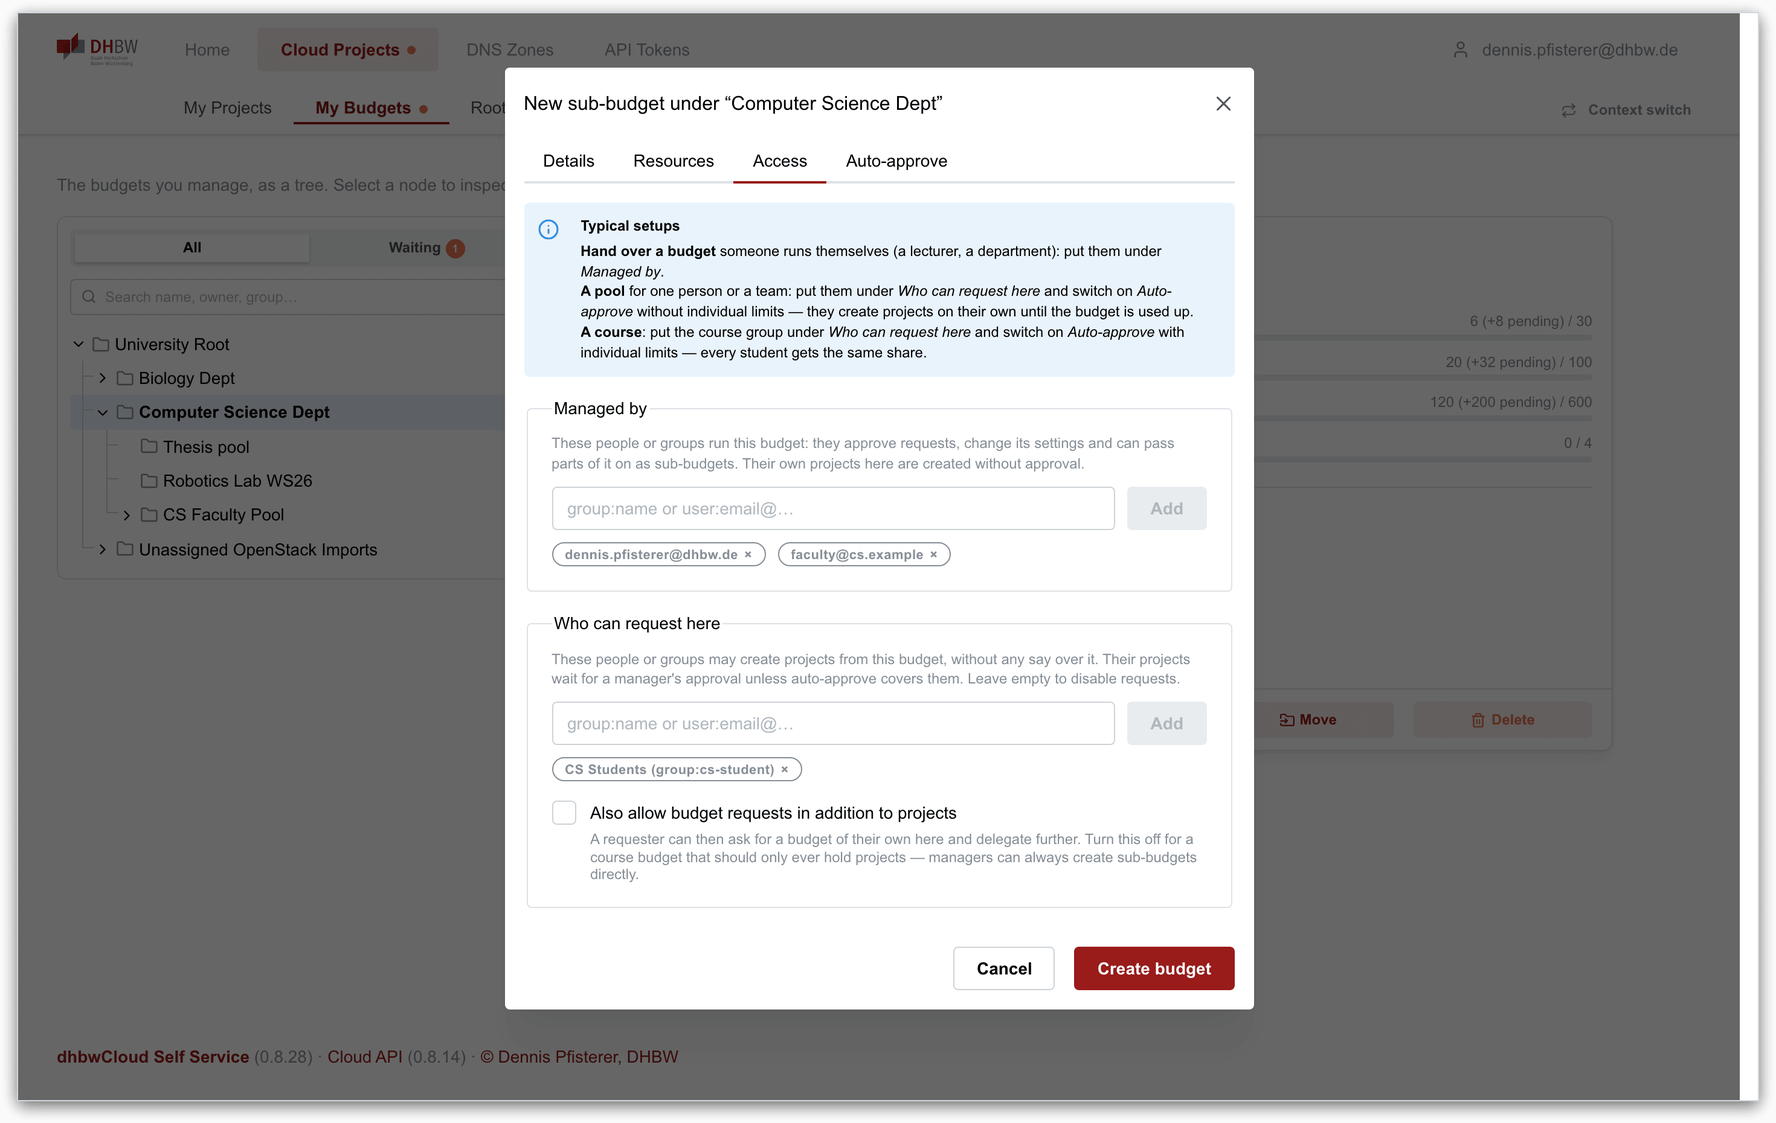
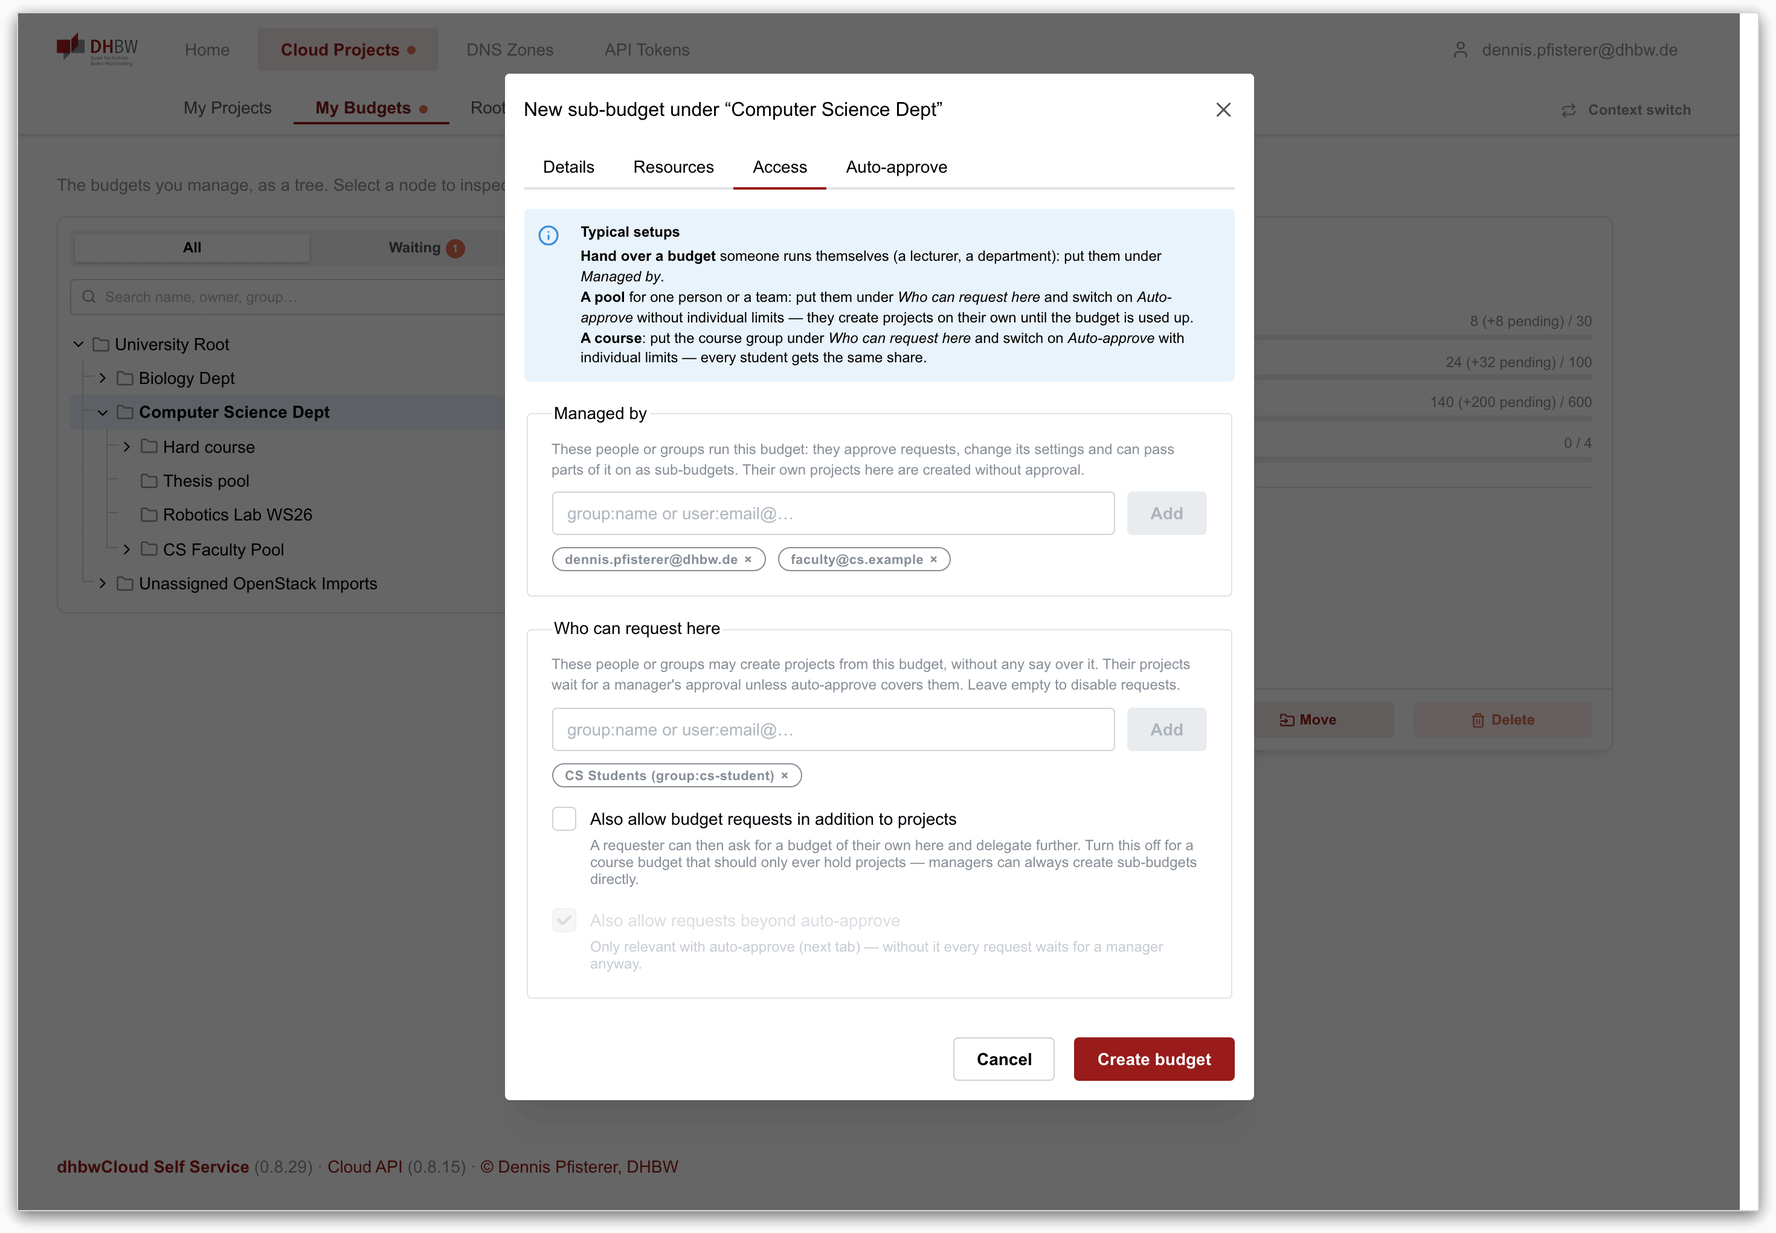
budgets: requests beyond auto-approve can be switched off
Under "Who can request here", a budget with auto-approve can refuse what the policy does not cover. The request form then says so and cannot be sent, and the budget cards say that nothing goes beyond the share.

diff --git a/web/projects/util-project.jsx b/web/projects/util-project.jsx
@@ -252,13 +252,20 @@ export function autoApproveHeadroom(budget, resources, myProjects) {
     return out;
 }
 
+// beyondAutoApproveRefused reports whether the budget refuses requests its
+// auto-approve does not cover, instead of queueing them for a manager.
+export function beyondAutoApproveRefused(budget) {
+    return hasAutoApprove(budget) && budget.allow_requests_beyond_auto_approve === false;
+}
+
 // autoApproveText says in one line what a budget grants without a manager,
 // or '' when it grants nothing that way.
 export function autoApproveText(resources, budget) {
     if (!hasAutoApprove(budget)) return '';
-    if (isPoolAutoApprove(budget)) return 'Approved automatically while the budget has room';
+    const hard = beyondAutoApproveRefused(budget) ? '; nothing beyond that can be requested' : '';
+    if (isPoolAutoApprove(budget)) return `Approved automatically while the budget has room${hard}`;
     const amount = resourceSummaryText(resources, budget.auto_approve.per_requester_limit);
-    return `Up to ${amount || 'the configured amount'} per person approved automatically`;
+    return `Up to ${amount || 'the configured amount'} per person approved automatically${hard}`;
 }
 
 // What happens when a request is sent — the same decision the API makes, made
@@ -268,6 +275,8 @@ export function autoApproveText(resources, budget) {
 //               own creation is checked on the spot and turned down
 //   'instant'   the budget's auto-approve grants it (or it needs no approval)
 //   'approval'  a manager of the budget decides
+//   'blocked'   beyond what auto-approve grants, and the budget takes no
+//               requests beyond that — the server refuses it
 //
 // requestOutcome is for a NEW project under `budget`.
 export function requestOutcome({ budget, manages, quota, resources, myProjects }) {
@@ -278,7 +287,8 @@ export function requestOutcome({ budget, manages, quota, resources, myProjects }
     const fits = (resources || [])
         .filter(r => !isAvailability(r))
         .every(r => (quota?.[r.id] ?? 0) <= (headroom[r.id] ?? 0));
-    return fits ? 'instant' : 'approval';
+    if (fits) return 'instant';
+    return beyondAutoApproveRefused(budget) ? 'blocked' : 'approval';
 }
 
 // changeOutcome is for a proposed change to an active project `node` under
@@ -287,7 +297,10 @@ export function requestOutcome({ budget, manages, quota, resources, myProjects }
 // and extending take effect at once only where the budget's auto-approve covers
 // them — for growth only the DIFFERENCE has to fit, since the project already
 // holds its current size.
-export function changeOutcome({ node, budget, quota, terminationDate, resources, myProjects }) {
+//
+// `manages`: the viewer manages the budget — the hard limit of a budget that
+// takes no requests beyond its auto-approve does not bind them.
+export function changeOutcome({ node, budget, quota, terminationDate, resources, myProjects, manages = false }) {
     const current = node?.limit || {};
     const counted = (resources || []).filter(r => !isAvailability(r));
     const grows = (resources || []).some(r => isAvailability(r)
@@ -299,10 +312,11 @@ export function changeOutcome({ node, budget, quota, terminationDate, resources,
     const extendsEnd = nextEnd !== null && currentEnd !== null && nextEnd > currentEnd;
 
     if (!grows && !extendsEnd) return 'instant';
+    const beyond = beyondAutoApproveRefused(budget) && !manages ? 'blocked' : 'approval';
     if (!hasAutoApprove(budget) || budget.status !== 'approved') return 'approval';
     if (extendsEnd) {
         const budgetEnd = endOf(budget.termination_date);
-        if (budgetEnd !== null && nextEnd > budgetEnd) return 'approval';
+        if (budgetEnd !== null && nextEnd > budgetEnd) return beyond;
     }
     if (grows) {
         // An availability newly switched on is no quantity: the policy grants
@@ -311,7 +325,7 @@ export function changeOutcome({ node, budget, quota, terminationDate, resources,
         const headroom = autoApproveHeadroom(budget, resources, myProjects);
         const fits = counted.every(r =>
             (quota?.[r.id] ?? 0) - (current[r.id] ?? 0) <= (headroom[r.id] ?? 0));
-        if (!fits) return 'approval';
+        if (!fits) return beyond;
     }
     return 'instant';
 }

diff --git a/web/projects/modal-budget-form.jsx b/web/projects/modal-budget-form.jsx
@@ -62,6 +62,7 @@ export function BudgetFormModal({ opened, onClose, onDone, resources, mode, pare
                 adminScope: node.admin_scope || [],
                 eligibleRequesters: node.eligible_requesters || [],
                 allowSubBudgetRequests: node.allow_sub_budget_requests !== false,
+                allowRequestsBeyond: node.allow_requests_beyond_auto_approve !== false,
                 autoApproveEnabled: !!node.auto_approve,
                 autoApproveIndividual: !!node.auto_approve && !isPoolAutoApprove(node),
                 autoApproveQuota: { ...(node.auto_approve?.per_requester_limit || defaultQuota(resources)) },
@@ -84,6 +85,8 @@ export function BudgetFormModal({ opened, onClose, onDone, resources, mode, pare
                 // requesters. Existing budgets are untouched — the API still treats an
                 // unset flag as "allowed".
                 allowSubBudgetRequests: false,
+                // As before the switch existed: beyond auto-approve, a manager decides.
+                allowRequestsBeyond: true,
                 autoApproveEnabled: false,
                 // A pool unless said otherwise: the budget's own cap already
                 // bounds it, and a per-person limit only matters once several
@@ -172,6 +175,9 @@ export function BudgetFormModal({ opened, onClose, onDone, resources, mode, pare
         if (allowSubBudgetRequests !== (node.allow_sub_budget_requests !== false)) {
             body.allow_sub_budget_requests = allowSubBudgetRequests;
         }
+        if (values.allowRequestsBeyond !== (node.allow_requests_beyond_auto_approve !== false)) {
+            body.allow_requests_beyond_auto_approve = values.allowRequestsBeyond;
+        }
         const policy = autoApprovePolicy(values);
         if (policy) {
             const prev = JSON.stringify(node.auto_approve?.per_requester_limit || {});
@@ -207,6 +213,7 @@ export function BudgetFormModal({ opened, onClose, onDone, resources, mode, pare
                 admin_scope: values.adminScope,
                 eligible_requesters: values.eligibleRequesters,
                 allow_sub_budget_requests: values.allowSubBudgetRequests,
+                allow_requests_beyond_auto_approve: values.allowRequestsBeyond,
                 auto_approve: autoApprovePolicy(values),
                 termination_date: values.terminationDate ? values.terminationDate.toISOString() : null,
             });
@@ -351,6 +358,23 @@ export function BudgetFormModal({ opened, onClose, onDone, resources, mode, pare
                         disabled={!hasRequesters}
                         {...form.getInputProps('allowSubBudgetRequests', { type: 'checkbox' })}
                         style={fadedWithoutRequesters}
+                    />
+
+                    {/* Belongs to the requesters, not to auto-approve: it says what
+                        they may ask for. It only has something to limit once
+                        auto-approve is on, so it is faded until then. */}
+                    <Checkbox
+                        label="Also allow requests beyond auto-approve"
+                        description={!hasRequesters
+                            ? 'Only relevant once somebody may request here.'
+                            : !autoApproveEnabled
+                                ? 'Only relevant with auto-approve (next tab) — without it every request waits for a manager anyway.'
+                                : form.values.allowRequestsBeyond
+                                    ? 'What auto-approve does not cover waits for a manager. Turn this off to make it a hard limit.'
+                                    : 'Off: what auto-approve does not cover is refused right away — nothing waits for a manager. Managers themselves are not limited.'}
+                        disabled={!hasRequesters || !autoApproveEnabled}
+                        {...form.getInputProps('allowRequestsBeyond', { type: 'checkbox' })}
+                        style={{ opacity: hasRequesters && autoApproveEnabled ? 1 : 0.45, transition: 'opacity 150ms ease' }}
                     />
                 </Stack>
             </Fieldset>

diff --git a/web/projects/component-budget-offers.jsx b/web/projects/component-budget-offers.jsx
@@ -2,7 +2,7 @@ import { Clock, Inbox, Plus, Zap } from 'lucide-react';
 import { Badge, Button, Card, Group, SimpleGrid, Stack, Text } from '@mantine/core';
 import { FactRow, TokenBadgeList } from './component-common.jsx';
 import {
-    autoApproveHeadroom, COLOR, expiryTone, expiryValue, freeAmount, hasAutoApprove, isAvailability,
+    autoApproveHeadroom, beyondAutoApproveRefused, COLOR, expiryTone, expiryValue, freeAmount, hasAutoApprove, isAvailability,
     isPoolAutoApprove, resourceSummaryText, UNLIMITED_QUOTA, visibleResources,
 } from './util-project.jsx';
 
@@ -27,6 +27,7 @@ function BudgetOfferCard({ budget, resources, myProjects, onNewProject, onReques
         : Object.fromEntries(scope.map(r => [r.id, freeAmount(budget, r.id)]));
     const summary = resourceSummaryText(scope, printable(available));
     const usedUp = instant && !isPoolAutoApprove(budget) && !summary;
+    const hardLimit = beyondAutoApproveRefused(budget);
     const takesBudgetRequests = budget.allow_sub_budget_requests !== false;
 
     return (
@@ -43,9 +44,11 @@ function BudgetOfferCard({ budget, resources, myProjects, onNewProject, onReques
             <Stack gap={6} style={{ flex: 1 }} mb="sm">
                 <Text size="xs">
                     {usedUp
-                        ? 'Your automatic share is used up — further projects go to a manager.'
+                        ? (hardLimit
+                            ? 'Your share is used up — give resources back or ask a manager to raise it.'
+                            : 'Your automatic share is used up — further projects go to a manager.')
                         : instant
-                            ? <>Yours right away: {summary || 'nothing left'}</>
+                            ? <>Yours right away: {summary || 'nothing left'}{hardLimit ? ' — nothing beyond that.' : ''}</>
                             : <>Still free here: {summary || 'nothing'} — a manager approves each project.</>}
                 </Text>
                 <FactRow label="Managed by">

diff --git a/web/projects/card-budget.jsx b/web/projects/card-budget.jsx
@@ -1,7 +1,7 @@
 import { Check, Eye, FolderInput, FolderOpen, Pencil, Plus, Trash2, X, Zap } from 'lucide-react';
 import { Badge, Button, Card, Divider, Group, Stack, Text } from '@mantine/core';
 import { FactRow, NodeChangesDiff, NodeStatusBadge, NodeUsageBars, PersonBadge, TokenBadgeList } from './component-common.jsx';
-import { autoApproveText, COLOR, expiryTone, expiryValue, hasAutoApprove, isPoolAutoApprove } from './util-project.jsx';
+import { autoApproveText, beyondAutoApproveRefused, COLOR, expiryTone, expiryValue, hasAutoApprove, isPoolAutoApprove } from './util-project.jsx';
 
 // BudgetCard renders one budget (inner tree node): who manages it, who may
 // request under it, and how full it is. Like ProjectCard it is presentational —
@@ -77,9 +77,12 @@ export function BudgetCard({ node, resources, onOpen, onAction, manageable = fal
 
                     {autoApprove && (
                         <FactRow label="Auto-approve"
-                            hint={isPoolAutoApprove(node)
-                                ? 'Requests are granted without asking until the budget is used up; beyond that a manager decides.'
-                                : "Requests up to this size are granted without asking; anything bigger needs a manager's decision."}>
+                            hint={(isPoolAutoApprove(node)
+                                ? 'Requests are granted without asking until the budget is used up'
+                                : 'Requests up to this size are granted without asking')
+                                + (beyondAutoApproveRefused(node)
+                                    ? '; anything beyond is refused.'
+                                    : "; anything beyond needs a manager's decision.")}>
                             <Text size="xs">
                                 <Zap size="11" style={{ verticalAlign: '-1px', marginRight: 4, color: 'var(--mantine-color-green-7)' }} />
                                 {autoApproveText(resources, node)}

diff --git a/web/projects/request-outcome.test.js b/web/projects/request-outcome.test.js
@@ -102,3 +102,29 @@ describe('changeOutcome', () => {
         expect(change(pool(), { cpu: 2, ram: 8, ipv4: 1 })).toBe('instant');
     });
 });
+
+describe('a budget that takes no requests beyond auto-approve', () => {
+    const hard = (b) => ({ ...b, allow_requests_beyond_auto_approve: false });
+    const project = { id: 'p1', parent_id: 'b1', status: 'approved', limit: { cpu: 2, ram: 8 }, termination_date: '2027-03-31T00:00:00Z' };
+
+    it('blocks a new project beyond the share instead of queueing it', () => {
+        const ask = (quota) => requestOutcome({ budget: hard(individual()), quota, resources: RESOURCES, myProjects: [] });
+        expect(ask({ cpu: 4, ram: 16 })).toBe('instant');
+        expect(ask({ cpu: 5 })).toBe('blocked');
+    });
+
+    it('does not bind the budget\'s managers', () => {
+        expect(requestOutcome({ budget: hard(individual()), manages: true, quota: { cpu: 5 }, resources: RESOURCES, myProjects: [] })).toBe('direct');
+        expect(changeOutcome({ node: project, budget: hard(pool()), quota: { cpu: 9, ram: 8 }, resources: RESOURCES, myProjects: [project], manages: true })).toBe('approval');
+    });
+
+    it('blocks growth past the pool but still lets resources go back', () => {
+        const change = (quota) => changeOutcome({ node: project, budget: hard(pool()), quota, terminationDate: project.termination_date, resources: RESOURCES, myProjects: [project] });
+        expect(change({ cpu: 9, ram: 8 })).toBe('blocked');
+        expect(change({ cpu: 1, ram: 8 })).toBe('instant');
+    });
+
+    it('means nothing without auto-approve', () => {
+        expect(requestOutcome({ budget: hard(budget()), quota: { cpu: 1 }, resources: RESOURCES, myProjects: [] })).toBe('approval');
+    });
+});

diff --git a/web/projects/modal-project-form.jsx b/web/projects/modal-project-form.jsx
@@ -81,6 +81,15 @@ function BudgetSelect({ myBudgets, eligibleBudgets, resources, value, onChange, 
 // will do — the one thing a requester cannot otherwise tell before it happened.
 function OutcomeNote({ outcome, isChange, budget, hasPolicy }) {
     if (!outcome) return null;
+    if (outcome === 'blocked') {
+        return (
+            <Text size="sm" c={COLOR.negative} mt="sm">
+                More than {budget ? `“${budget.name || budget.id}”` : 'this budget'} grants you, and it takes
+                no requests beyond that. Ask for less, give resources back elsewhere, or ask one of its
+                managers to raise your share.
+            </Text>
+        );
+    }
     if (outcome === 'refused') {
         return (
             <Text size="sm" c={COLOR.negative} mt="sm">
@@ -243,6 +252,7 @@ export function ProjectFormModal({ opened, onClose, onDone, resources, openstack
     const outcome = isChange
         ? (node.status === 'pending' ? null : changeOutcome({
             node, budget: outcomeBudget, quota, terminationDate, resources, myProjects,
+            manages: managedIds.has(node.parent_id),
         }))
         : requestOutcome({
             budget: outcomeBudget, manages: managedIds.has(parentId), quota, resources, myProjects,
@@ -475,6 +485,7 @@ export function ProjectFormModal({ opened, onClose, onDone, resources, openstack
                 : 'New project'}
             onSubmit={form.onSubmit(values => save.mutate(values), handleInvalid)}
             submitting={save.isPending}
+            submitDisabled={outcome === 'blocked'}
             submitError={save.error && formatError(save.error)}
             submitLabel={isChange
                 ? (node?.status === 'pending' ? 'Update request'

diff --git a/web/projects/component-form-modal.jsx b/web/projects/component-form-modal.jsx
@@ -53,7 +53,7 @@ export function FormTabs({ value, onChange, tabs }) {
  */
 export function FormModal({
     opened, onClose, title, size = 'lg',
-    onSubmit, submitting, submitError, submitLabel, submitColor,
+    onSubmit, submitting, submitError, submitLabel, submitColor, submitDisabled = false,
     children,
 }) {
     return (
@@ -72,7 +72,7 @@ export function FormModal({
 
                     <Group justify="flex-end" mt="md">
                         <Button variant="default" type="button" onClick={onClose}>Cancel</Button>
-                        <Button type="submit" color={submitColor} loading={submitting}>{submitLabel}</Button>
+                        <Button type="submit" color={submitColor} loading={submitting} disabled={submitDisabled}>{submitLabel}</Button>
                     </Group>
                 </Stack>
             </form>

diff --git a/README.md b/README.md
@@ -31,7 +31,7 @@ Two areas and the credentials for both, behind one login:
 
 **Cloud Projects** — resources are handed out along a *budget tree*. A budget is a delegated pool of capacity; passing capacity on means creating a sub-budget with someone else as its manager. A project is a leaf: a concrete allocation with one owner, which the platform turns into a real OpenStack project. Requests, the approval of them, adjusted approvals, changes, moves, owner transfers and release all live here, and each node keeps its own history; every project status explains itself on hover, because "Released" asks for deletion rather than performing it.
 
-A budget with auto-approval grants requests on the spot — as a pool until the budget is used up, or with individual limits per person — and later changes to a project that stay within it take effect at once too; giving resources back, ending sooner and changing members never wait. While a form is filled in it says what the button will do: create the project right away, or send it to the budget's managers, who are named. The budgets someone may draw from appear as cards on *My Projects*, each saying how much is theirs right away; *My Budgets* is shown only to people who manage a budget. The request dialogs show how much of the funding budget is still free and what share the entered values take. Resources are either quantities or *availabilities*, which are only granted or withheld and therefore get a switch instead of a number; each form offers only what the budget above it was delegated. Managers can adopt OpenStack projects that exist outside the managed lifecycle. Root admins see the state of the OpenStack reconciliation, and where the API permits it, a role switch shows the section as a given group or person would see it.
+A budget with auto-approval grants requests on the spot — as a pool until the budget is used up, or with individual limits per person — and later changes to a project that stay within it take effect at once too; giving resources back, ending sooner and changing members never wait. A budget can also refuse whatever its auto-approve does not cover, so nothing waits for a manager and its share becomes a hard limit. While a form is filled in it says what the button will do: create the project right away, or send it to the budget's managers, who are named. The budgets someone may draw from appear as cards on *My Projects*, each saying how much is theirs right away; *My Budgets* is shown only to people who manage a budget. The request dialogs show how much of the funding budget is still free and what share the entered values take. Resources are either quantities or *availabilities*, which are only granted or withheld and therefore get a switch instead of a number; each form offers only what the budget above it was delegated. Managers can adopt OpenStack projects that exist outside the managed lifecycle. Root admins see the state of the OpenStack reconciliation, and where the API permits it, a role switch shows the section as a given group or person would see it.
 
 **DNS Zones** — self-service DNS. Users create zones they are entitled to by policy, edit records in the browser, and get per-zone TSIG keys so that Kubernetes, `external-dns` or `cert-manager` can keep the records up to date via RFC 2136 without a human in the loop. A zone the platform reports a problem with — a client failing TSIG in a loop, for example — carries a warning in the zone list and a banner on its page. Whoever a policy rule applies to also gets an *Administration* page with the rules and the zones delegated to them; super admins additionally see delegations, orphaned zones and every active zone event, with a pre-filled mail to the zone's owners.
 
